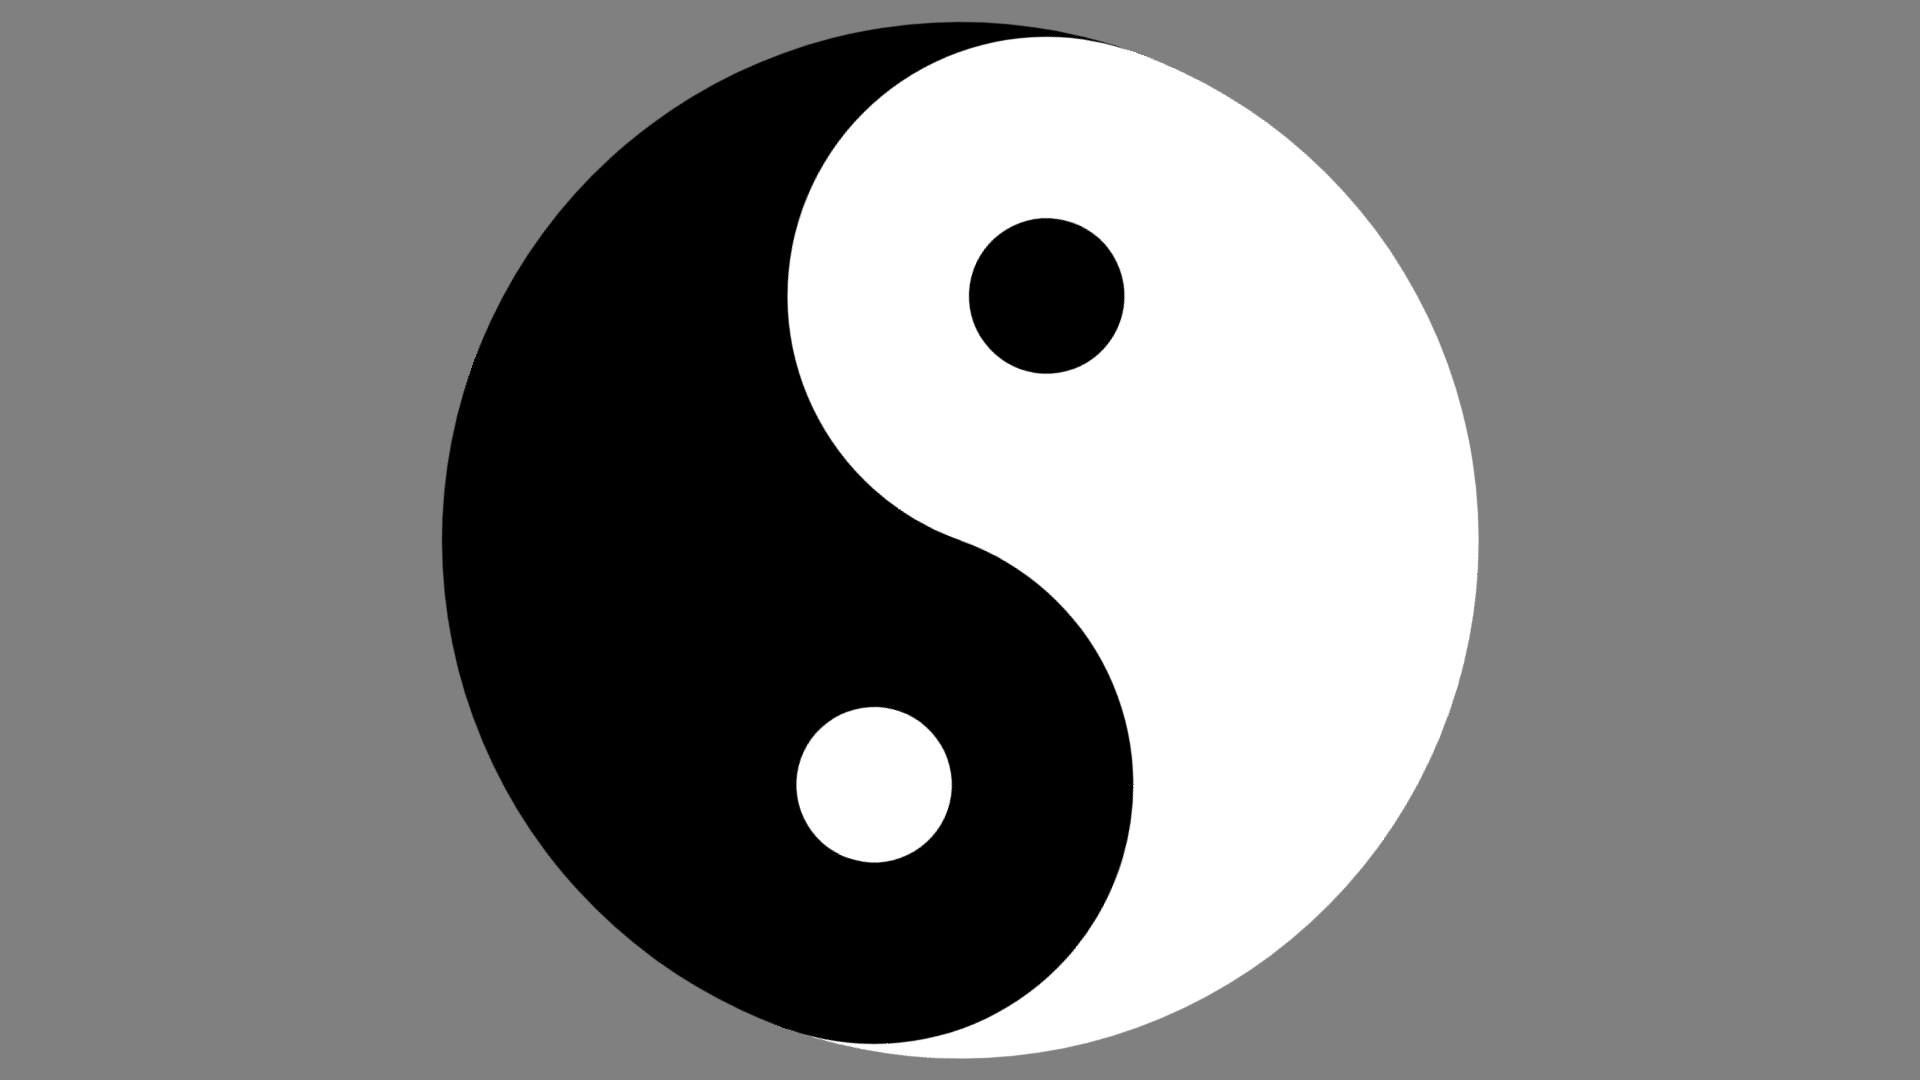
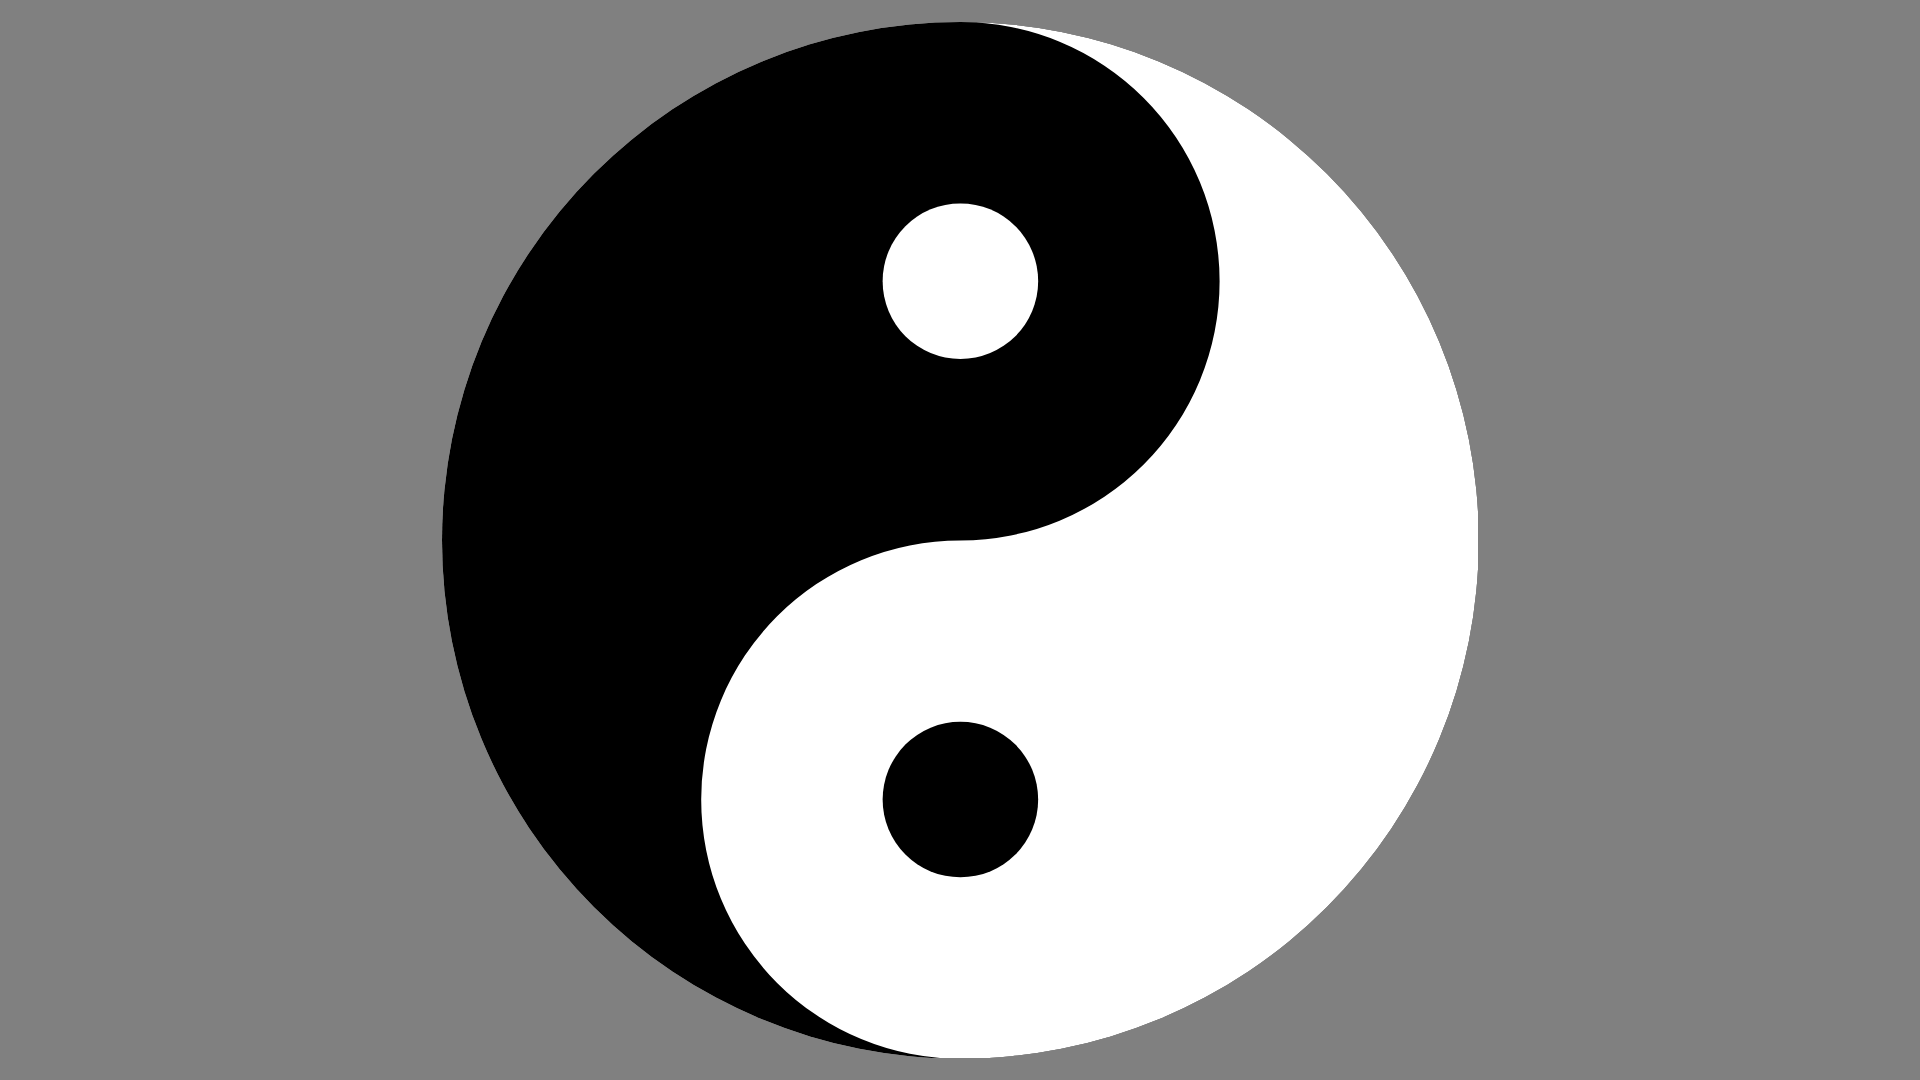
fix: resolve gray area in yin-yang SVG using correct single-path approach
Root cause: the layered circle approach had a rendering conflict where
the white lobe circle at the boundary of the outer circle caused
background bleed via antialiasing artifacts. The clip-path approach
also failed due to sub-pixel compositing issues.

Fix: replace layered circles with a single continuous white half-path
that uses large-arc=1 for the lobe arcs. This ensures full lobe
coverage without gaps. A SVG mask clips to the outer circle boundary.

Also fixes:
- Background color changed from CSS 'gray' to exact #808080 (the
  precise midpoint between black #000000 and white #ffffff)
- Dot colors corrected: white dot in black half, black dot in white half

Tests updated to match the new SVG structure (4 circles, mask element,
large-arc path assertions, #808080 background check).

Changed region(s): [[0.3438, 0.0306, 0.6562, 0.9778]]

diff --git a/index.html b/index.html
@@ -19,7 +19,7 @@
         width: 100%;
         height: 100%;
         overflow: hidden;
-        background: gray;
+        background: #808080;
         touch-action: none;
         -webkit-user-select: none;
         -moz-user-select: none;
@@ -39,6 +39,10 @@
         width: min(96vw, 96vh);
         height: min(96vw, 96vh);
         animation: rotate 120s linear infinite;
+      }
+
+      .yin-yang-container svg {
+        display: block;
       }
 
       /*
@@ -430,18 +434,37 @@
         width="100%"
         height="100%"
       >
-        <!-- Full black circle as base -->
-        <circle cx="0" cy="0" r="1" fill="black" />
-        <!-- White right semicircle -->
-        <path d="M 0 -1 A 1 1 0 0 1 0 1 Z" fill="white" />
-        <!-- White upper lobe (bulges left into black area) -->
-        <circle cx="0" cy="-0.5" r="0.5" fill="white" />
-        <!-- Black lower lobe (bulges right into white area) -->
-        <circle cx="0" cy="0.5" r="0.5" fill="black" />
-        <!-- Small black dot in white half (top) -->
-        <circle cx="0" cy="-0.5" r="0.15" fill="black" />
-        <!-- Small white dot in black half (bottom) -->
-        <circle cx="0" cy="0.5" r="0.15" fill="white" />
+        <defs>
+          <!--
+            Mask using the outer circle: only pixels inside r=1 are visible.
+            White in the mask = fully visible; the circle is white so everything inside r=1 shows.
+            This cleanly clips all content to the circle with proper antialiasing at the edges.
+          -->
+          <mask id="circle-mask">
+            <circle cx="0" cy="0" r="1" fill="white" />
+          </mask>
+        </defs>
+        <!--
+          All yin-yang elements are grouped under the mask.
+          The mask clips to the circle boundary with correct antialiasing
+          (mask edges blend to transparent, not to the gray background).
+        -->
+        <g mask="url(#circle-mask)">
+          <!-- Full black circle as base layer -->
+          <circle cx="0" cy="0" r="1" fill="black" />
+          <!-- White half: right semicircle + upper lobe - lower lobe.
+               Uses large-arc=1 for lobe arcs to ensure full lobe coverage with no gaps.
+               Path: top(0,-1) →CW r=1→ bottom(0,1) →large-CCW r=0.5→ center(0,0) →large-CW r=0.5→ top(0,-1)
+          -->
+          <path
+            d="M 0,-1 A 1,1 0 0,1 0,1 A 0.5,0.5 0 1,1 0,0 A 0.5,0.5 0 1,0 0,-1 Z"
+            fill="white"
+          />
+          <!-- Small white dot in black half (upper lobe center) -->
+          <circle cx="0" cy="-0.5" r="0.15" fill="white" />
+          <!-- Small black dot in white half (lower lobe center) -->
+          <circle cx="0" cy="0.5" r="0.15" fill="black" />
+        </g>
       </svg>
     </div>
     <script>

diff --git a/experiments/yin-yang-test.html b/experiments/yin-yang-test.html
@@ -1,0 +1,72 @@
+<!doctype html>
+<html>
+  <head>
+    <style>
+      body {
+        background: #808080;
+        display: flex;
+        gap: 20px;
+        padding: 20px;
+      }
+      svg {
+        width: 300px;
+        height: 300px;
+        border: 1px solid red;
+      }
+    </style>
+  </head>
+  <body>
+    <!-- Test 1: Just trace what the white path covers -->
+    <svg viewBox="-1 -1 2 2">
+      <rect x="-1" y="-1" width="2" height="2" fill="yellow" />
+      <!-- White path only -->
+      <path
+        d="M 0,-1 A 1,1 0 0,1 0,1 A 0.5,0.5 0 0,0 0,0 A 0.5,0.5 0 0,0 0,-1 Z"
+        fill="white"
+        opacity="0.7"
+      />
+    </svg>
+
+    <!-- Test 2: Just the black path -->
+    <svg viewBox="-1 -1 2 2">
+      <rect x="-1" y="-1" width="2" height="2" fill="yellow" />
+      <path
+        d="M 0,-1 A 0.5,0.5 0 0,1 0,0 A 0.5,0.5 0 0,1 0,1 A 1,1 0 0,0 0,-1 Z"
+        fill="black"
+        opacity="0.7"
+      />
+    </svg>
+
+    <!-- Test 3: Both paths combined -->
+    <svg viewBox="-1 -1 2 2">
+      <path
+        d="M 0,-1 A 1,1 0 0,1 0,1 A 0.5,0.5 0 0,0 0,0 A 0.5,0.5 0 0,0 0,-1 Z"
+        fill="white"
+      />
+      <path
+        d="M 0,-1 A 0.5,0.5 0 0,1 0,0 A 0.5,0.5 0 0,1 0,1 A 1,1 0 0,0 0,-1 Z"
+        fill="black"
+      />
+      <circle cx="0" cy="-0.5" r="0.15" fill="black" />
+      <circle cx="0" cy="0.5" r="0.15" fill="white" />
+    </svg>
+
+    <!-- Test 4: Wikipedia reference approach - single path for white region using 
+     the standard yin-yang path that is well-known to work -->
+    <svg viewBox="-1 -1 2 2">
+      <!-- The well-known yin yang path: white half -->
+      <!-- Top (0,-1) CW outer to bottom(0,1), then CCW inner up through right side of lower lobe to center,
+       then CW inner up through right side of upper lobe back to top -->
+      <path
+        d="M 0,-1 A 1,1 0 0,1 0,1 A 0.5,0.5 0 1,1 0,0 A 0.5,0.5 0 1,0 0,-1 Z"
+        fill="white"
+      />
+      <path
+        d="M 0,-1 A 0.5,0.5 0 1,1 0,0 A 0.5,0.5 0 1,0 0,1 A 1,1 0 0,0 0,-1 Z"
+        fill="black"
+      />
+      <circle cx="0" cy="-0.5" r="0.15" fill="black" />
+      <circle cx="0" cy="0.5" r="0.15" fill="white" />
+    </svg>
+  </body>
+</html>

diff --git a/tests/yin-yang.test.js b/tests/yin-yang.test.js
@@ -40,22 +40,34 @@ describe('SVG yin-yang symbol', () => {
     expect(html.includes('fill="white"')).toBe(true);
   });
 
-  it('should have circle elements for base, lobes, and dots', () => {
+  it('should have circle elements for mask, base, and dots', () => {
     const circleMatches = html.match(/<circle/g);
     expect(circleMatches !== null).toBe(true);
-    expect(circleMatches.length).toBe(5);
+    // mask circle + base circle + white dot + black dot = 4
+    expect(circleMatches.length).toBe(4);
   });
 
-  it('should have a path element for the white semicircle', () => {
+  it('should have a path element for the white half', () => {
     const pathMatches = html.match(/<path/g);
     expect(pathMatches !== null).toBe(true);
     expect(pathMatches.length).toBe(1);
   });
+
+  it('should use a mask to clip the symbol to a circle boundary', () => {
+    expect(html.includes('<mask')).toBe(true);
+    expect(html.includes('mask="url(#circle-mask)"')).toBe(true);
+  });
+
+  it('should use large-arc arcs for lobe coverage in the white half path', () => {
+    // The white path uses large-arc=1 (A ... 1,1 ... and A ... 1,0 ...) for lobe arcs
+    expect(html.includes('A 0.5,0.5 0 1,1')).toBe(true);
+    expect(html.includes('A 0.5,0.5 0 1,0')).toBe(true);
+  });
 });
 
 describe('gray background', () => {
-  it('should set gray background on body', () => {
-    expect(html.includes('background: gray')).toBe(true);
+  it('should set exact middle-gray (#808080) background on body', () => {
+    expect(html.includes('background: #808080')).toBe(true);
   });
 });
 
